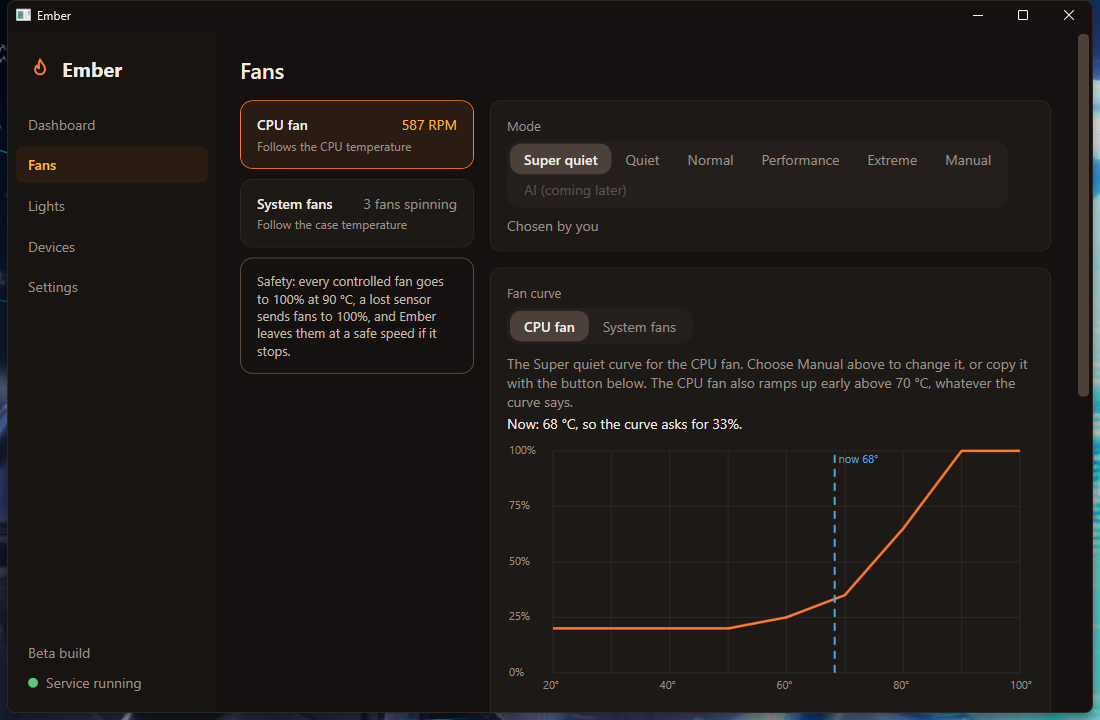
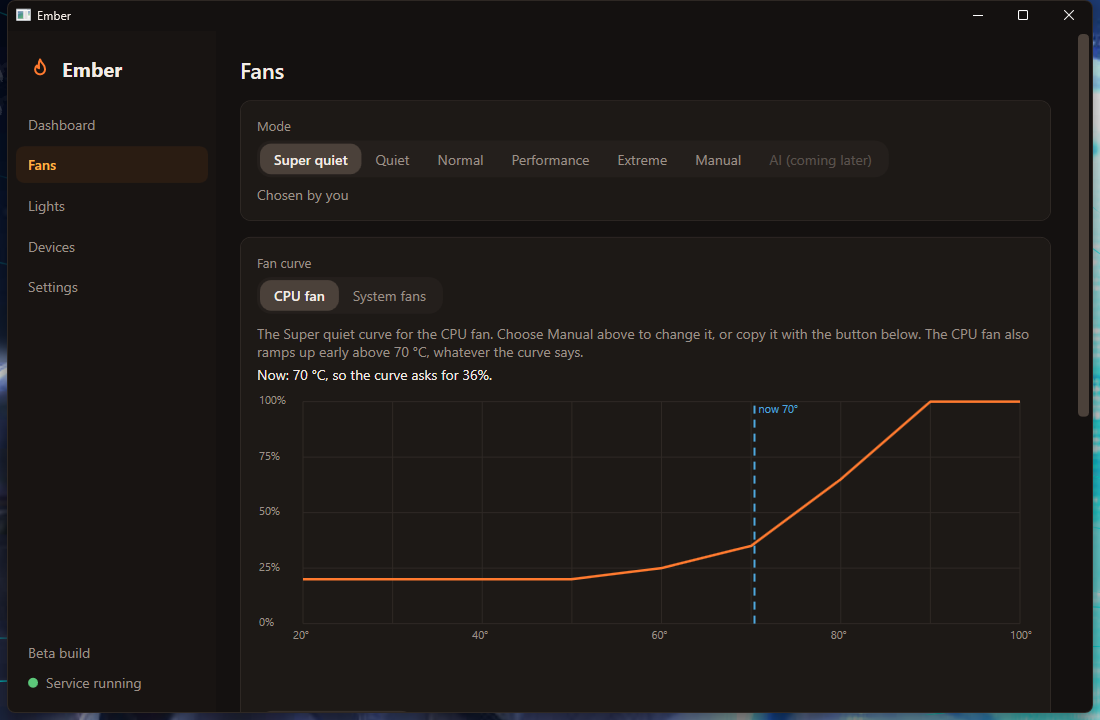
Put the Fans and Lights pages back to their earlier layout

diff --git a/src/Ember.App/MainWindow.xaml b/src/Ember.App/MainWindow.xaml
@@ -177,37 +177,6 @@
                     <TextBlock Text="{Binding FansPage.SafetyNote}" TextWrapping="Wrap" AutomationProperties.LiveSetting="Assertive" />
                 </Border>
 
-                <Grid Margin="0,0,0,16">
-                    <Grid.ColumnDefinitions>
-                        <ColumnDefinition Width="250" />
-                        <ColumnDefinition Width="*" />
-                    </Grid.ColumnDefinitions>
-                    <StackPanel Grid.Column="0" Margin="0,0,16,0">
-                        <Border Background="#2a1c12" BorderBrush="{StaticResource AccentBrush}" BorderThickness="1" CornerRadius="12" Padding="16,14" Margin="0,0,0,10">
-                            <StackPanel>
-                                <DockPanel>
-                                    <TextBlock DockPanel.Dock="Right" Text="{Binding CpuFanText}" Foreground="#ffb347" />
-                                    <TextBlock Text="CPU fan" FontWeight="SemiBold" />
-                                </DockPanel>
-                                <TextBlock Text="Follows the CPU temperature" Foreground="{StaticResource MutedBrush}" FontSize="12" Margin="0,4,0,0" />
-                            </StackPanel>
-                        </Border>
-                        <Border Background="{StaticResource PanelBrush}" BorderBrush="{StaticResource PanelBorderBrush}" BorderThickness="1" CornerRadius="12" Padding="16,14" Margin="0,0,0,10">
-                            <StackPanel>
-                                <DockPanel>
-                                    <TextBlock DockPanel.Dock="Right" Text="{Binding SystemFanText}" Foreground="{StaticResource MutedBrush}" />
-                                    <TextBlock Text="System fans" FontWeight="SemiBold" />
-                                </DockPanel>
-                                <TextBlock Text="Follow the case temperature" Foreground="{StaticResource MutedBrush}" FontSize="12" Margin="0,4,0,0" />
-                            </StackPanel>
-                        </Border>
-                        <Border BorderBrush="#5a4a3e" BorderThickness="1" CornerRadius="12" Padding="16,14">
-                            <TextBlock Foreground="#c7b8aa" TextWrapping="Wrap" FontSize="13"
-                                       Text="Safety: every controlled fan goes to 100% at 90 &#176;C, a lost sensor sends fans to 100%, and Ember leaves them at a safe speed if it stops." />
-                        </Border>
-                    </StackPanel>
-                    <StackPanel Grid.Column="1">
-
                 <GroupBox Header="Mode" Style="{StaticResource Panel}" Margin="0,0,0,16" AutomationProperties.Name="Fan mode">
                     <StackPanel>
                         <Border Style="{StaticResource SegmentTrack}">
@@ -233,8 +202,6 @@
                 <GroupBox Header="Fan curve" Style="{StaticResource Panel}" Margin="0,0,0,16" AutomationProperties.Name="Fan curve">
                     <local:CurveEditor x:Name="Curve" />
                 </GroupBox>
-                    </StackPanel>
-                </Grid>
 
                 <GroupBox Header="Games" Style="{StaticResource Panel}" Margin="0,0,0,16" AutomationProperties.Name="Games"
                           Visibility="{Binding BetaGamesVisibility}">

diff --git a/src/Ember.App/LightsPage.cs b/src/Ember.App/LightsPage.cs
@@ -43,7 +43,7 @@ public sealed class LightsPage : UserControl
     {
         Content = _root;
         Focusable = false;
-        _root.Children.Add(new TextBlock { Text = "Lights", FontSize = 24, FontWeight = FontWeights.SemiBold, Margin = new Thickness(0, 0, 0, 16) });
+        _root.Children.Add(new TextBlock { Text = "Lights", FontSize = 22, FontWeight = FontWeights.SemiBold, Margin = new Thickness(0, 0, 0, 16) });
         AutomationProperties.SetHeadingLevel(_root.Children[0], AutomationHeadingLevel.Level2);
     }
 
@@ -74,7 +74,7 @@ public sealed class LightsPage : UserControl
         top.Children.Add(row);
         top.Children.Add(Text("Lights start switched off, so Ember never takes over a device until you ask. Turning them off sends one dark frame; closing Ember leaves them as they are.", muted: true));
         top.Children.Add(_status);
-        var pLights = Panel("Lights", top);
+        _root.Children.Add(Panel("Lights", top));
 
         var sceneBox = new StackPanel();
         sceneBox.Children.Add(_scenes);
@@ -85,14 +85,14 @@ public sealed class LightsPage : UserControl
         save.Children.Add(Pill("Save as new scene", SaveScene));
         save.Children.Add(Pill("Delete this scene", () => { m.DeleteScene(m.State.CurrentScene); }));
         sceneBox.Children.Add(save);
-        var pScenes = Panel("Scenes", sceneBox);
+        _root.Children.Add(Panel("Scenes", sceneBox));
 
         var canvasBox = new StackPanel();
         canvasBox.Children.Add(Text("Drag a device to where it sits in your room, or select it and use the arrow keys (Ctrl with the arrows changes its size). Effects are painted across this canvas, so devices side by side show one picture.", muted: true));
         var frame = new Border { Background = Res("TrackBrush"), CornerRadius = new CornerRadius(12), Margin = new Thickness(0, 10, 0, 0), Child = _canvas, Padding = new Thickness(0) };
         _canvas.SizeChanged += (_, _) => LayoutVisuals();
         canvasBox.Children.Add(frame);
-        var pCanvas = Panel("Canvas", canvasBox);
+        _root.Children.Add(Panel("Canvas", canvasBox));
 
         var layerBox = new StackPanel();
         var add = new WrapPanel { Margin = new Thickness(0, 0, 0, 8) };
@@ -107,17 +107,7 @@ public sealed class LightsPage : UserControl
         layerBox.Children.Add(Text("Layers are stacked like in a photo editor: the top one is painted last.", muted: true));
         layerBox.Children.Add(_layers);
         layerBox.Children.Add(_editor);
-        var pLayers = Panel("Layers", layerBox);
-        var cols = new Grid { Margin = new Thickness(0, 0, 0, 0) };
-        cols.ColumnDefinitions.Add(new ColumnDefinition { Width = new GridLength(1, GridUnitType.Star) });
-        cols.ColumnDefinitions.Add(new ColumnDefinition { Width = new GridLength(440) });
-        var left = new StackPanel { Margin = new Thickness(0, 0, 16, 0) };
-        left.Children.Add(pCanvas); left.Children.Add(pLights);
-        var right = new StackPanel();
-        right.Children.Add(pScenes); right.Children.Add(pLayers);
-        Grid.SetColumn(right, 1);
-        cols.Children.Add(left); cols.Children.Add(right);
-        _root.Children.Add(cols);
+        _root.Children.Add(Panel("Layers", layerBox));
 
         _root.Children.Add(Panel("Devices", BuildDevicesBox()));
     }

diff --git a/src/Ember.App/MainViewModel.cs b/src/Ember.App/MainViewModel.cs
@@ -70,8 +70,6 @@ public sealed class MainViewModel : INotifyPropertyChanged
     public Visibility ExperimentalAvailableVisibility => BuildFeatures.Current.GameDetection || BuildFeatures.Current.GpuFan ? Visibility.Visible : Visibility.Collapsed;
     public Visibility BetaGpuVisibility => BuildFeatures.Current.GpuFan && _fansPage.Experimental ? Visibility.Visible : Visibility.Collapsed;
     public string ModeChipText => "Mode: " + FansViewState.Label(_fansPage.Mode);
-    public string CpuFanText => Fans.FirstOrDefault(f => f.Name.StartsWith("CPU Fan", StringComparison.OrdinalIgnoreCase))?.RpmText ?? "—";
-    public string SystemFanText { get { var s = Fans.Where(f => f.Name.StartsWith("System Fan", StringComparison.OrdinalIgnoreCase) && f.Fraction > 0).ToList(); return s.Count == 0 ? "—" : s.Count + (s.Count == 1 ? " fan" : " fans") + " spinning"; } }
     public string BuildLabel => BuildFeatures.Channel == "beta" ? "Beta build" : "Alpha build";
     public Visibility DetectedGameVisibility => _fansPage.DetectedGame is null ? Visibility.Collapsed : Visibility.Visible;
     public Visibility NotGamesVisibility => _fansPage.NotGames is { Count: > 0 } ? Visibility.Visible : Visibility.Collapsed;
